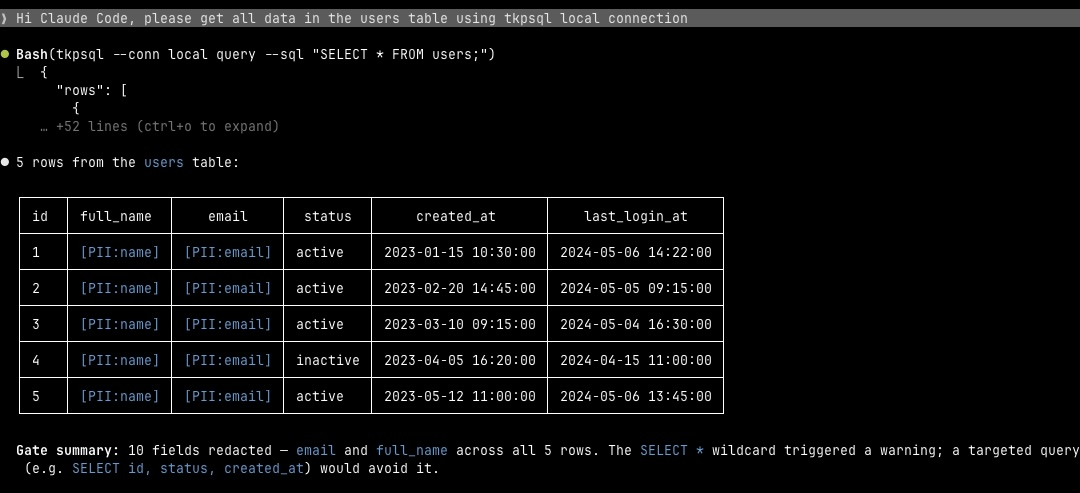
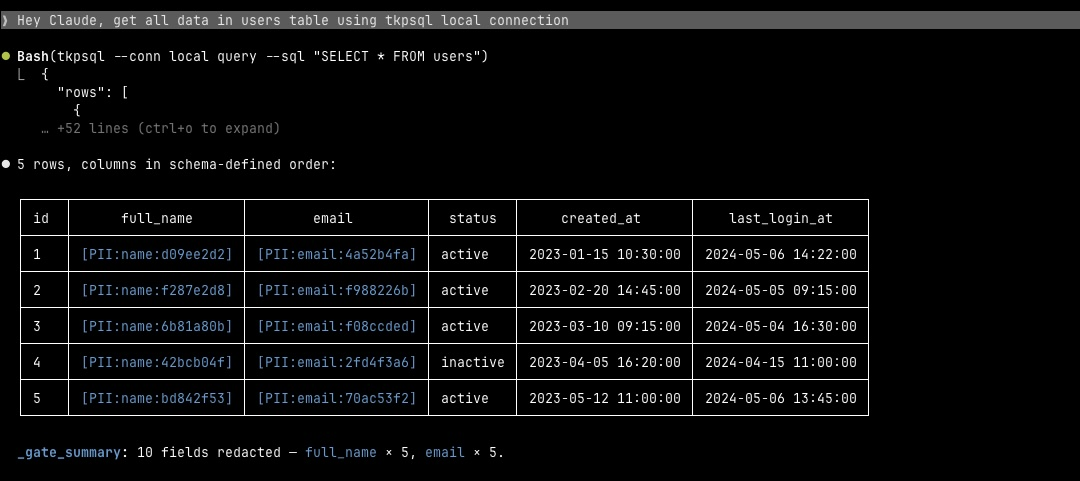
docs: remove login from PII synonyms table and add non-JSON verbose troubleshooting entry

diff --git a/crates/gate/src/run.rs b/crates/gate/src/run.rs
@@ -182,6 +182,11 @@ fn redact_stdin(verbose: bool, config: &Config) {
     let payload: serde_json::Value = match serde_json::from_str(input.trim()) {
         Ok(v) => v,
         Err(_) => {
+            if verbose {
+                eprintln!(
+                    "[gate] input is not JSON — redaction skipped, passing through unchanged"
+                );
+            }
             print!("{input}");
             return;
         }

diff --git a/README.md b/README.md
@@ -150,7 +150,7 @@ AI asks to run: tkpsql query --sql "SELECT * FROM users"
 | **Financial** | `bank_account`, `account_number`, `iban`, `swift`, `routing_number`, `bsb`, `credit_card` / `card_number`, `cvv` / `cvc`, `expiry` |
 | **Employment** | `salary`, `wage`, `job_title`, `employee_id`, `staff_id`, `student_id`, `manager_id`, and any `<entity>_id` / `<entity>_number` where entity is: employee, staff, student, member, client, customer, consumer, cust, crm, person, manager, user, device, session, cookie, advertising, external |
 | **Health & medical** | `medical`, `health`, `diagnosis`, `prescription`, `disability`, `vaccination`, `vaccine`, `npi` |
-| **Online & technical** | `username` / `user_name`, `login`, `ip_address`, `mac_address`, `auth_token`, `user_id`, `device_id`, `session_id`, `cookie_id`, `advertising_id` |
+| **Online & technical** | `username` / `user_name`, `ip_address`, `mac_address`, `auth_token`, `user_id`, `device_id`, `session_id`, `cookie_id`, `advertising_id` |
 | **Biometric** | `biometric`, `fingerprint`, `voiceprint`, `retina`, `face_scan` |
 | **Family & relationships** | `next_of_kin`, `emergency_contact`, `spouse_name`, `parent_name`, `guardian_name`, `children_names` |
 
@@ -332,6 +332,9 @@ Run `gate config` to create `~/.config/gate/config.yaml`. If you store the confi
 
 **Certain fields are not being masked (false negatives).**
 Run `gate run --verbose -- <your-command>` to see exactly why each field was passed or redacted. For each string field, verbose mode prints which step triggered (forced column, column-name classifier, Luhn, regex) or `passed (no match)` if nothing fired. You can also pipe a sample payload directly: `echo '<json>' | gate run --verbose`. Common fixes: add the column name to `column_names:` in config, or lower `confidence_threshold` if a pattern is matching below the threshold.
+
+**`gate run --verbose` shows "input is not JSON — redaction skipped".**
+The tool's output is not valid JSON, so Gate 2 cannot inspect it and passes the raw bytes through unchanged. This is expected for tools that return plain text or binary output. If you expect JSON, check the tool's output format — some CLIs require a `--json` or `--output json` flag to produce structured output.
 
 **Non-PII values are being redacted (false positives).**
 Raise `confidence_threshold` (e.g. to `0.9`) to reduce over-redaction, or narrow the regex for the offending pattern in the `patterns` block. Run `gate validate` after editing to catch syntax errors.